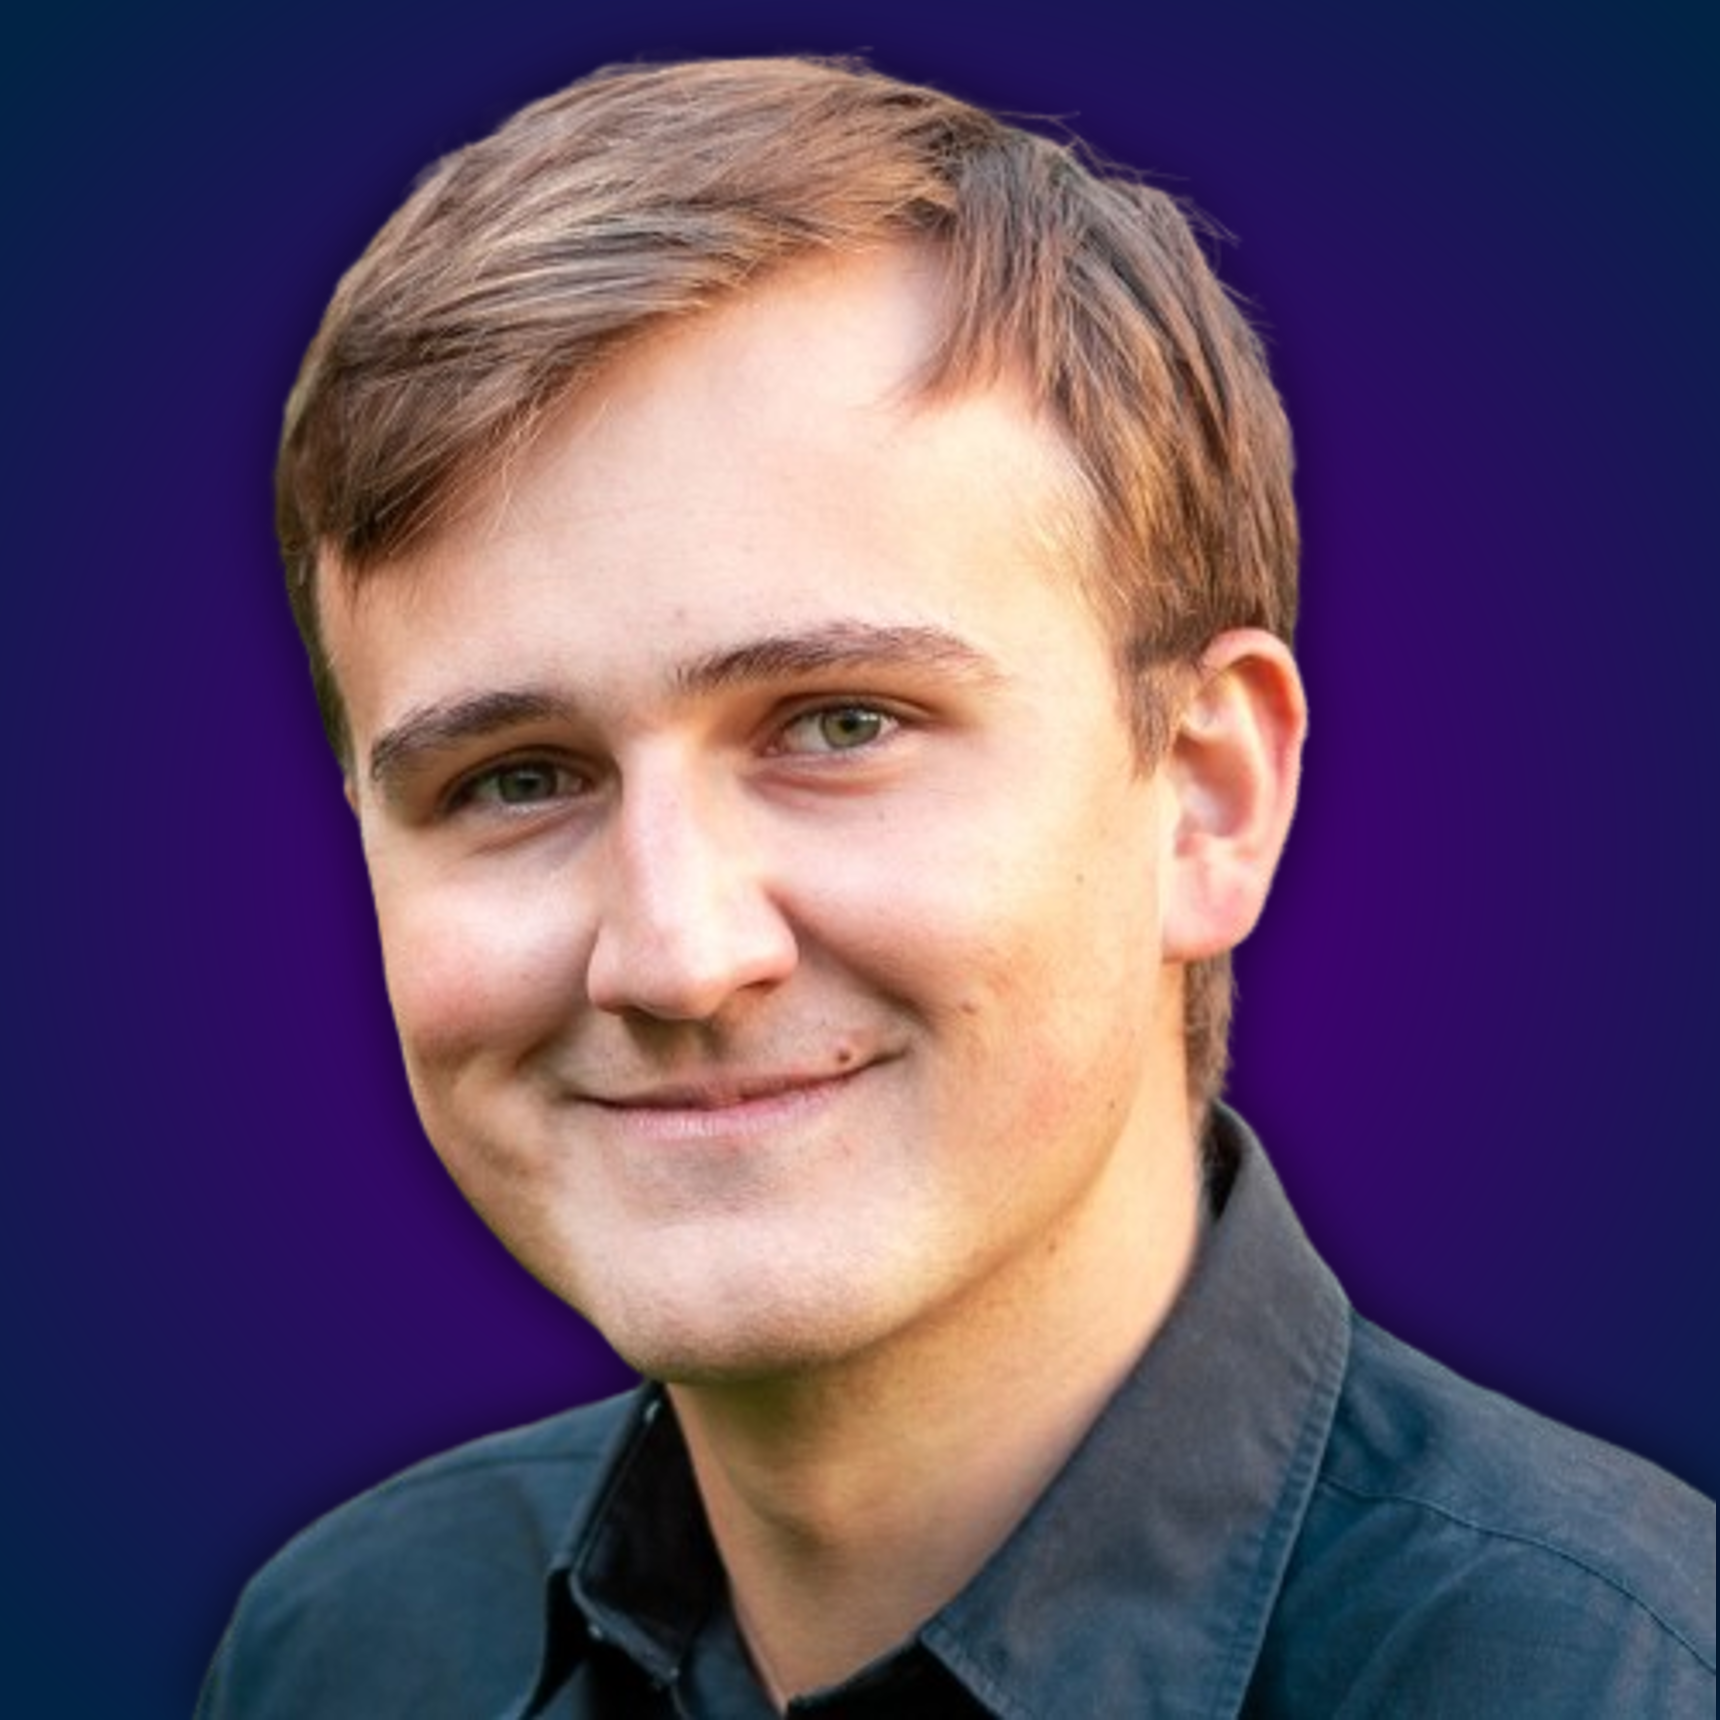
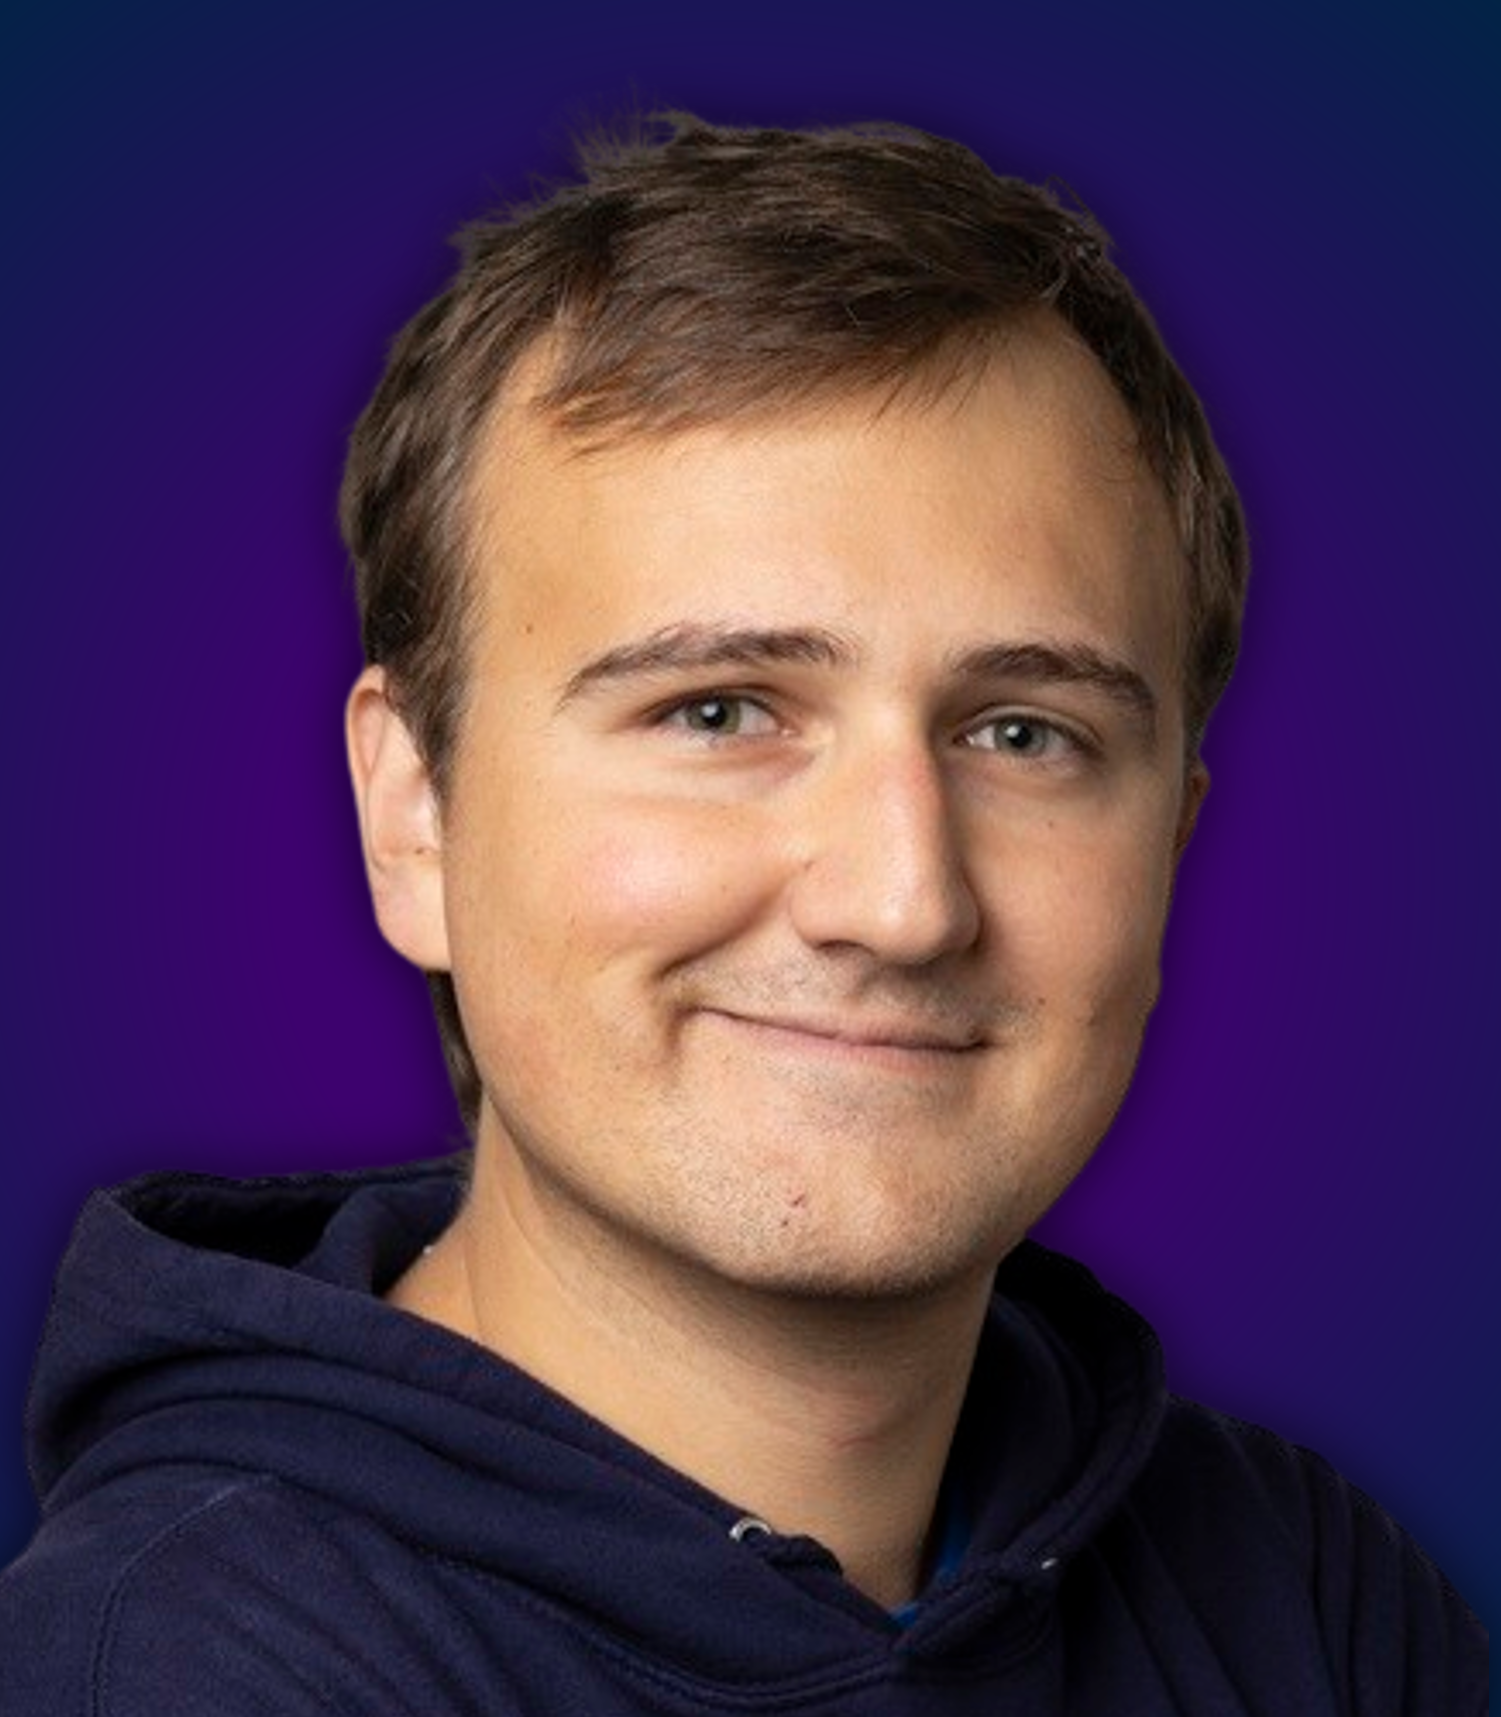
Mise en service du 01/01/2025-15:31:22

diff --git a/index.html b/index.html
@@ -5,6 +5,8 @@
     <link rel="canonical" href="https://bacchvs.github.io/" />
     <meta name="viewport" content="width=device-width, initial-scale=1.0">
     <link id="favicon" rel="icon" href="/img/favicons/favicon_light.png" type="image/png">
+    <meta property="og:image" content="https://www.arnaud.senecaut.fr/img/ident.png">
+
     <title>Arnaud Sénécaut</title>
     <script src="/js/main.js"></script>
     <script src="/js/Toast.js" type="module"></script>
@@ -20,91 +22,76 @@
 
     <script type="application/ld+json">
         {
-       "@context": "https://schema.org",
-       "@type": "Person",
-       "name": "Arnaud Sénécaut",
-       "familyName": "Sénécaut",
-       "givenName": "Arnaud",
-       "alternateName": "Arnaud Senecaut",
-       "url": "https://arnaud.senecaut.fr",
-       "image": "https://arnaud.senecaut.fr/img/file_adobe.png",
-       "sameAs": [
-         "https://www.linkedin.com/in/arnaud-sénécaut-44a3231b8",
-         "https://github.com/Bacchvs"
-       ],
-       "jobTitle": "Scientifique interdisciplinaire",
-       "worksFor": {
-         "@type": "Organization",
-         "name": "École Pratique des Hautes Études"
-       },
-       "knows": {
-         "@type": "Person",
-         "name": "Nicolas Sénécaut",
-         "alternateName": ["Nicolas Senecaut", "Dr Nicolas Sénécaut", "Nicolas Sénécaut, PhD"],
-         "url": "https://nicolas.senecaut.fr",
-         "description": "Frère, collègue de travail et collaborateur scientifique."
-       },
-       "alumniOf": [
-         {
-           "@type": "CollegeOrUniversity",
-           "name": "École Pratique des Hautes Études",
-           "description": "Master de Biologie [en cours]"
-         },
-         {
-           "@type": "CollegeOrUniversity",
-           "name": "Université Bretagne Sud",
-           "alternateName": "UBS",
-           "description": "Licence de Biologie"
-         },
-         {
-           "@type": "CollegeOrUniversity",
-           "name": "IUT de Vannes",
-           "alternateName": ["Université Bretagne Sud", "UBS"],
-           "description": "Diplôme Universitaire et Technologique en Informatique"
-         },
-         {
-           "@type": "CollegeOrUniversity",
-           "name": "Université Paris Descartes",
-           "alternateName": ["Université Paris V", "Université De Paris", "Université Paris Cité"]
-         }
-       ],
-       "knowsLanguage": [
-         {
-           "@type": "Language",
-           "name": "Français"
-         },
-         {
-           "@type": "Language",
-           "name": "Anglais"
-         },
-         {
-           "@type": "Language",
-           "name": "Espagnol"
-         },
-         {
-           "@type": "Language",
-           "name": "C"
-         },
-         {
-           "@type": "Language",
-           "name": "C++"
-         },
-         {
-           "@type": "Language",
-           "name": "Java"
-         },
-         {
-           "@type": "Language",
-           "name": "Python"
-         },
-         {
-           "@type": "Language",
-           "name": "Assembleur"
-         }
-       ],
-       "email": "mailto:arnaud@senecaut.fr",
-       "description": "Scientifique passionné, explorant les frontières de l'interdisciplinarité. Toujours curieux d'apprendre et de partager des connaissances."
-     }
+        "@context": "https://schema.org",
+        "@type": "Person",
+        "name": "Arnaud Sénécaut",
+        "familyName": "Sénécaut",
+        "givenName": "Arnaud",
+        "alternateName": "Arnaud Senecaut",
+        "url": "https://arnaud.senecaut.fr",
+        "image": "https://arnaud.senecaut.fr/img/full_transp.png",
+        "sameAs": [
+          "https://www.linkedin.com/in/arnaud-sénécaut-44a3231b8",
+          "https://github.com/Bacchvs"
+        ],
+        "jobTitle": "Scientifique interdisciplinaire",
+        "worksFor": {
+          "@type": "Organization",
+          "name": "École Pratique des Hautes Études"
+        },
+        "knows": {
+          "@type": "Person",
+          "name": "Nicolas Sénécaut",
+          "alternateName": ["Nicolas Senecaut", "Dr Nicolas Sénécaut", "Nicolas Sénécaut, PhD"],
+          "url": "https://nicolas.senecaut.fr",
+          "description": "Frère, collègue de travail et collaborateur scientifique."
+        },
+        "alumniOf": [
+          {
+            "@type": "CollegeOrUniversity",
+            "name": "École Pratique des Hautes Études",
+            "description": "Master de Biologie [en cours]"
+          },
+          {
+            "@type": "CollegeOrUniversity",
+            "name": "Université Bretagne Sud",
+            "alternateName": "UBS",
+            "description": "Licence de Biologie"
+          },
+          {
+            "@type": "CollegeOrUniversity",
+            "name": "IUT de Vannes",
+            "alternateName": ["Université Bretagne Sud", "UBS"],
+            "description": "Diplôme Universitaire et Technologique en Informatique"
+          },
+          {
+            "@type": "CollegeOrUniversity",
+            "name": "Université Paris Descartes",
+            "alternateName": ["Université Paris V", "Université De Paris", "Université Paris Cité"]
+          }
+        ],
+        "knowsAbout": ["R", "C", "C++", "Java", "Python", "Assembleur", "HTML", "CSS", "Javascript"],
+        "knowsLanguage": [
+          {
+            "@type": "Language",
+            "name": "Français"
+          },
+          {
+            "@type": "Language",
+            "name": "Anglais"
+          },
+          {
+            "@type": "Language",
+            "name": "Espagnol"
+          },
+          {
+            "@type": "Language",
+            "name": "Espagnol"
+          }
+        ],
+        "email": "mailto:arnaud@senecaut.fr",
+        "description": "Scientifique passionné, explorant les frontières de l'interdisciplinarité. Toujours curieux d'apprendre et de partager des connaissances."
+      }
     </script>
 </head>
 <body>

diff --git a/css/style.css b/css/style.css
@@ -216,7 +216,7 @@ section{
 
  
 #userpict_large {
-    background: url("../img/file_adobe.png") no-repeat;
+    background: url("../img/full_transp.png") no-repeat;
     background-size: auto 100%; /* Redimensionner l'image en fonction de la hauteur */
     background-position: bottom left; /* Positionner l'image en bas à droite */
     
